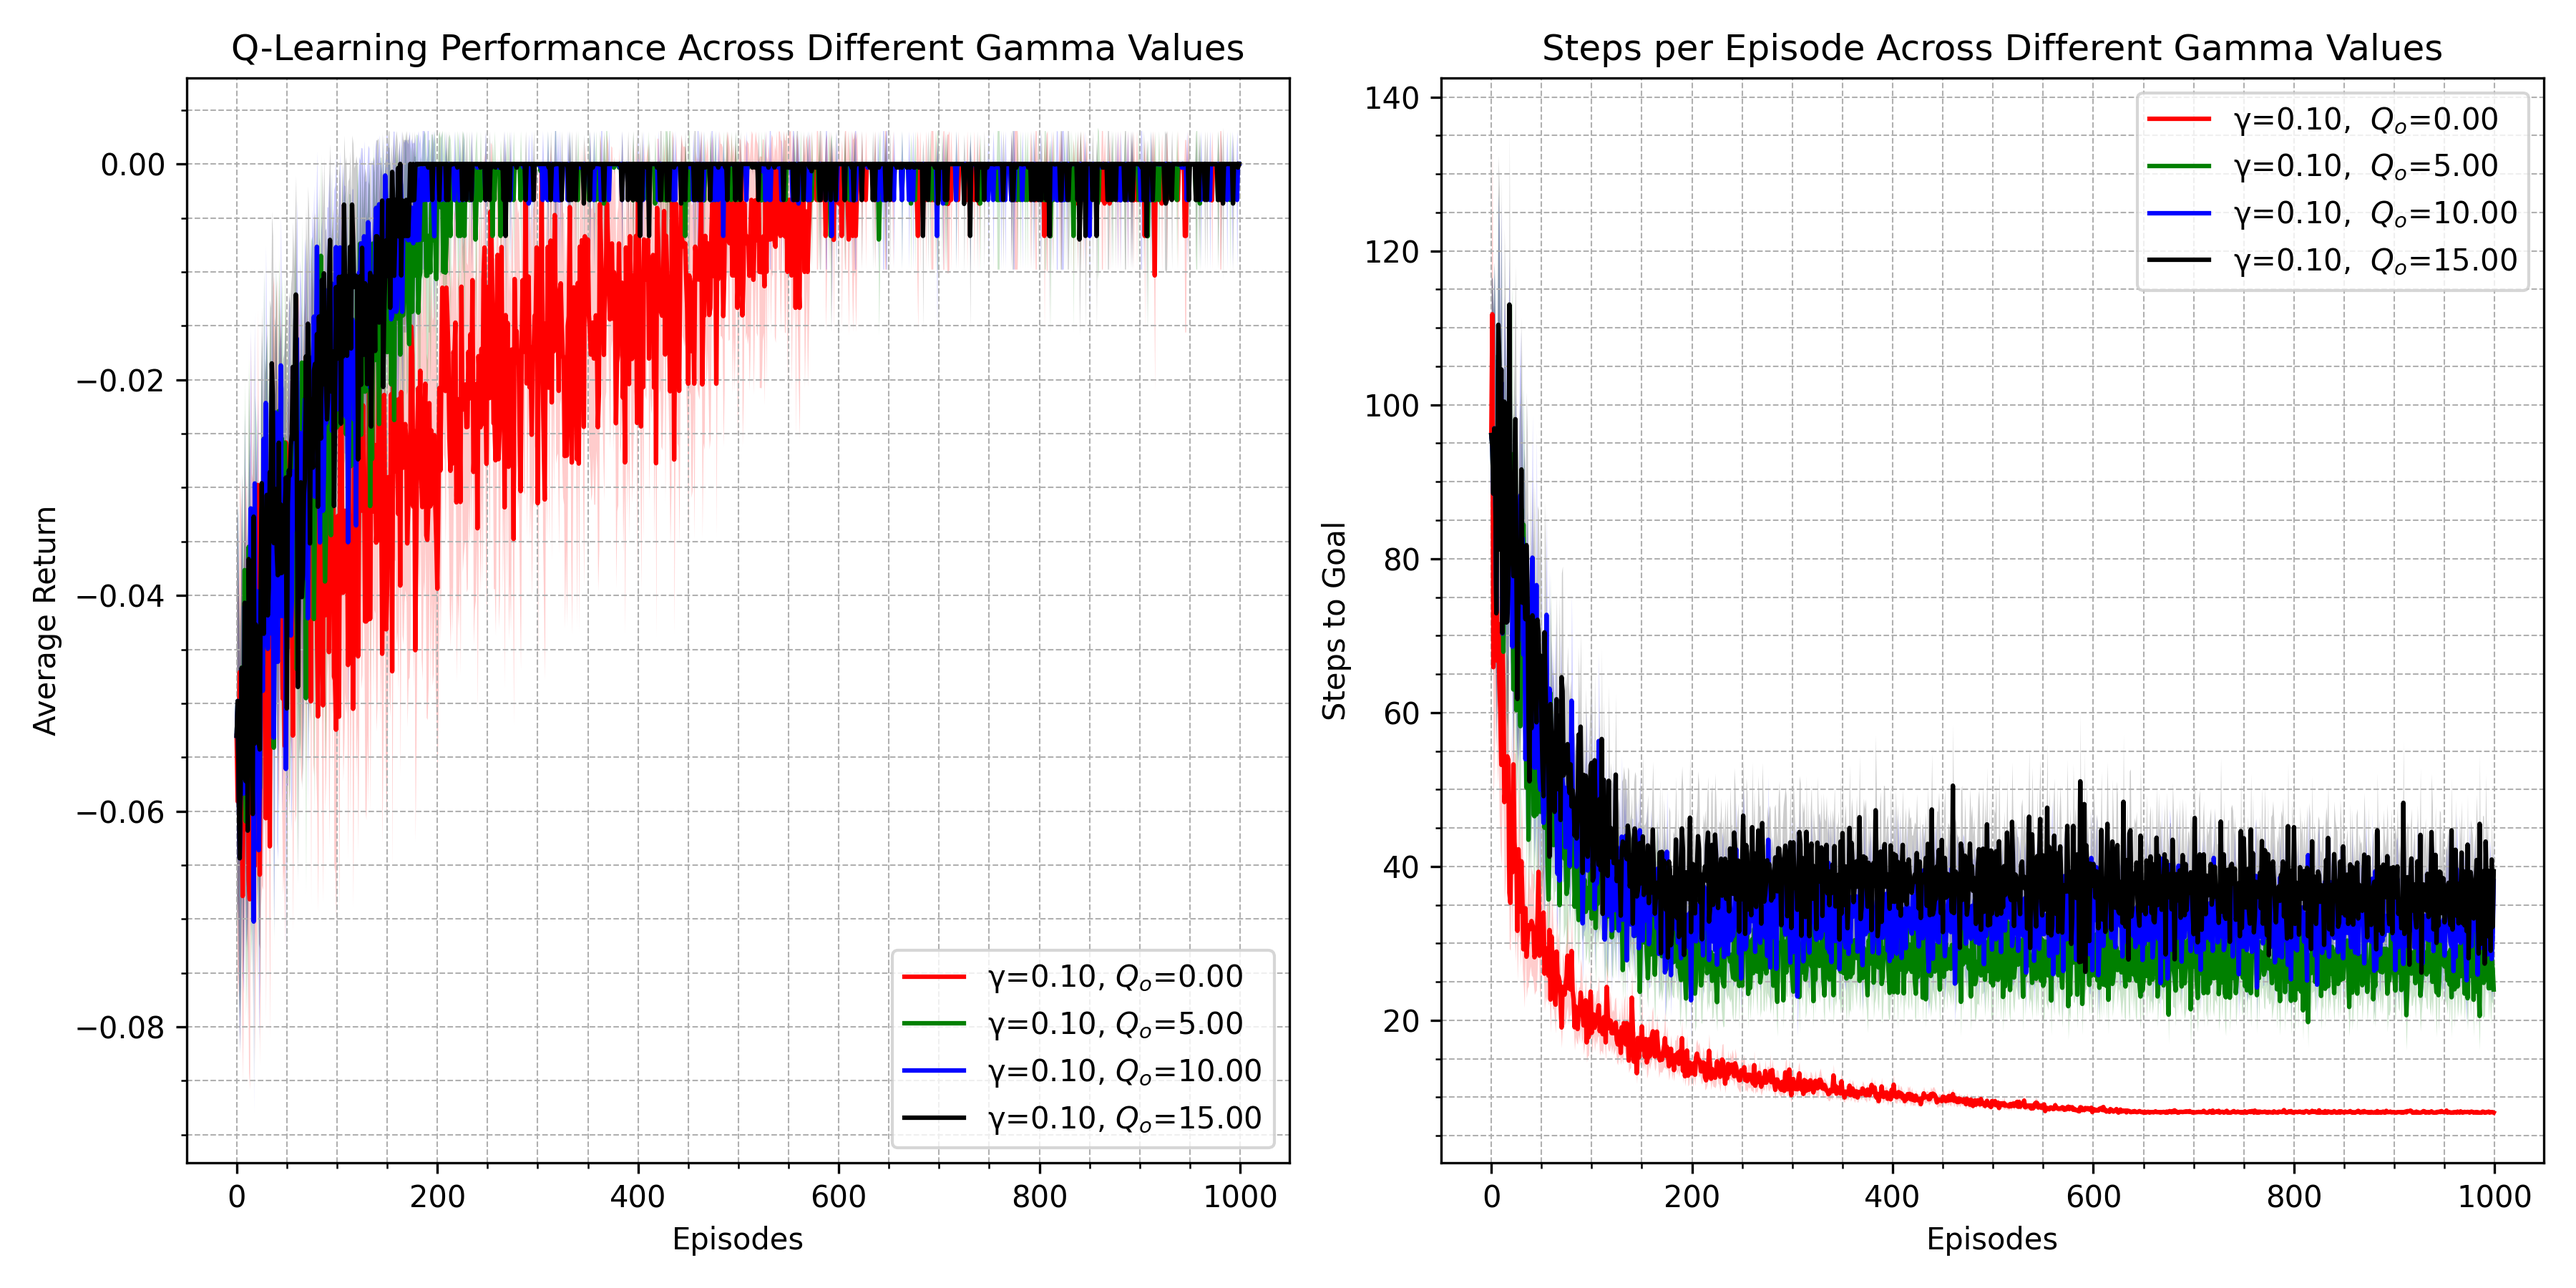
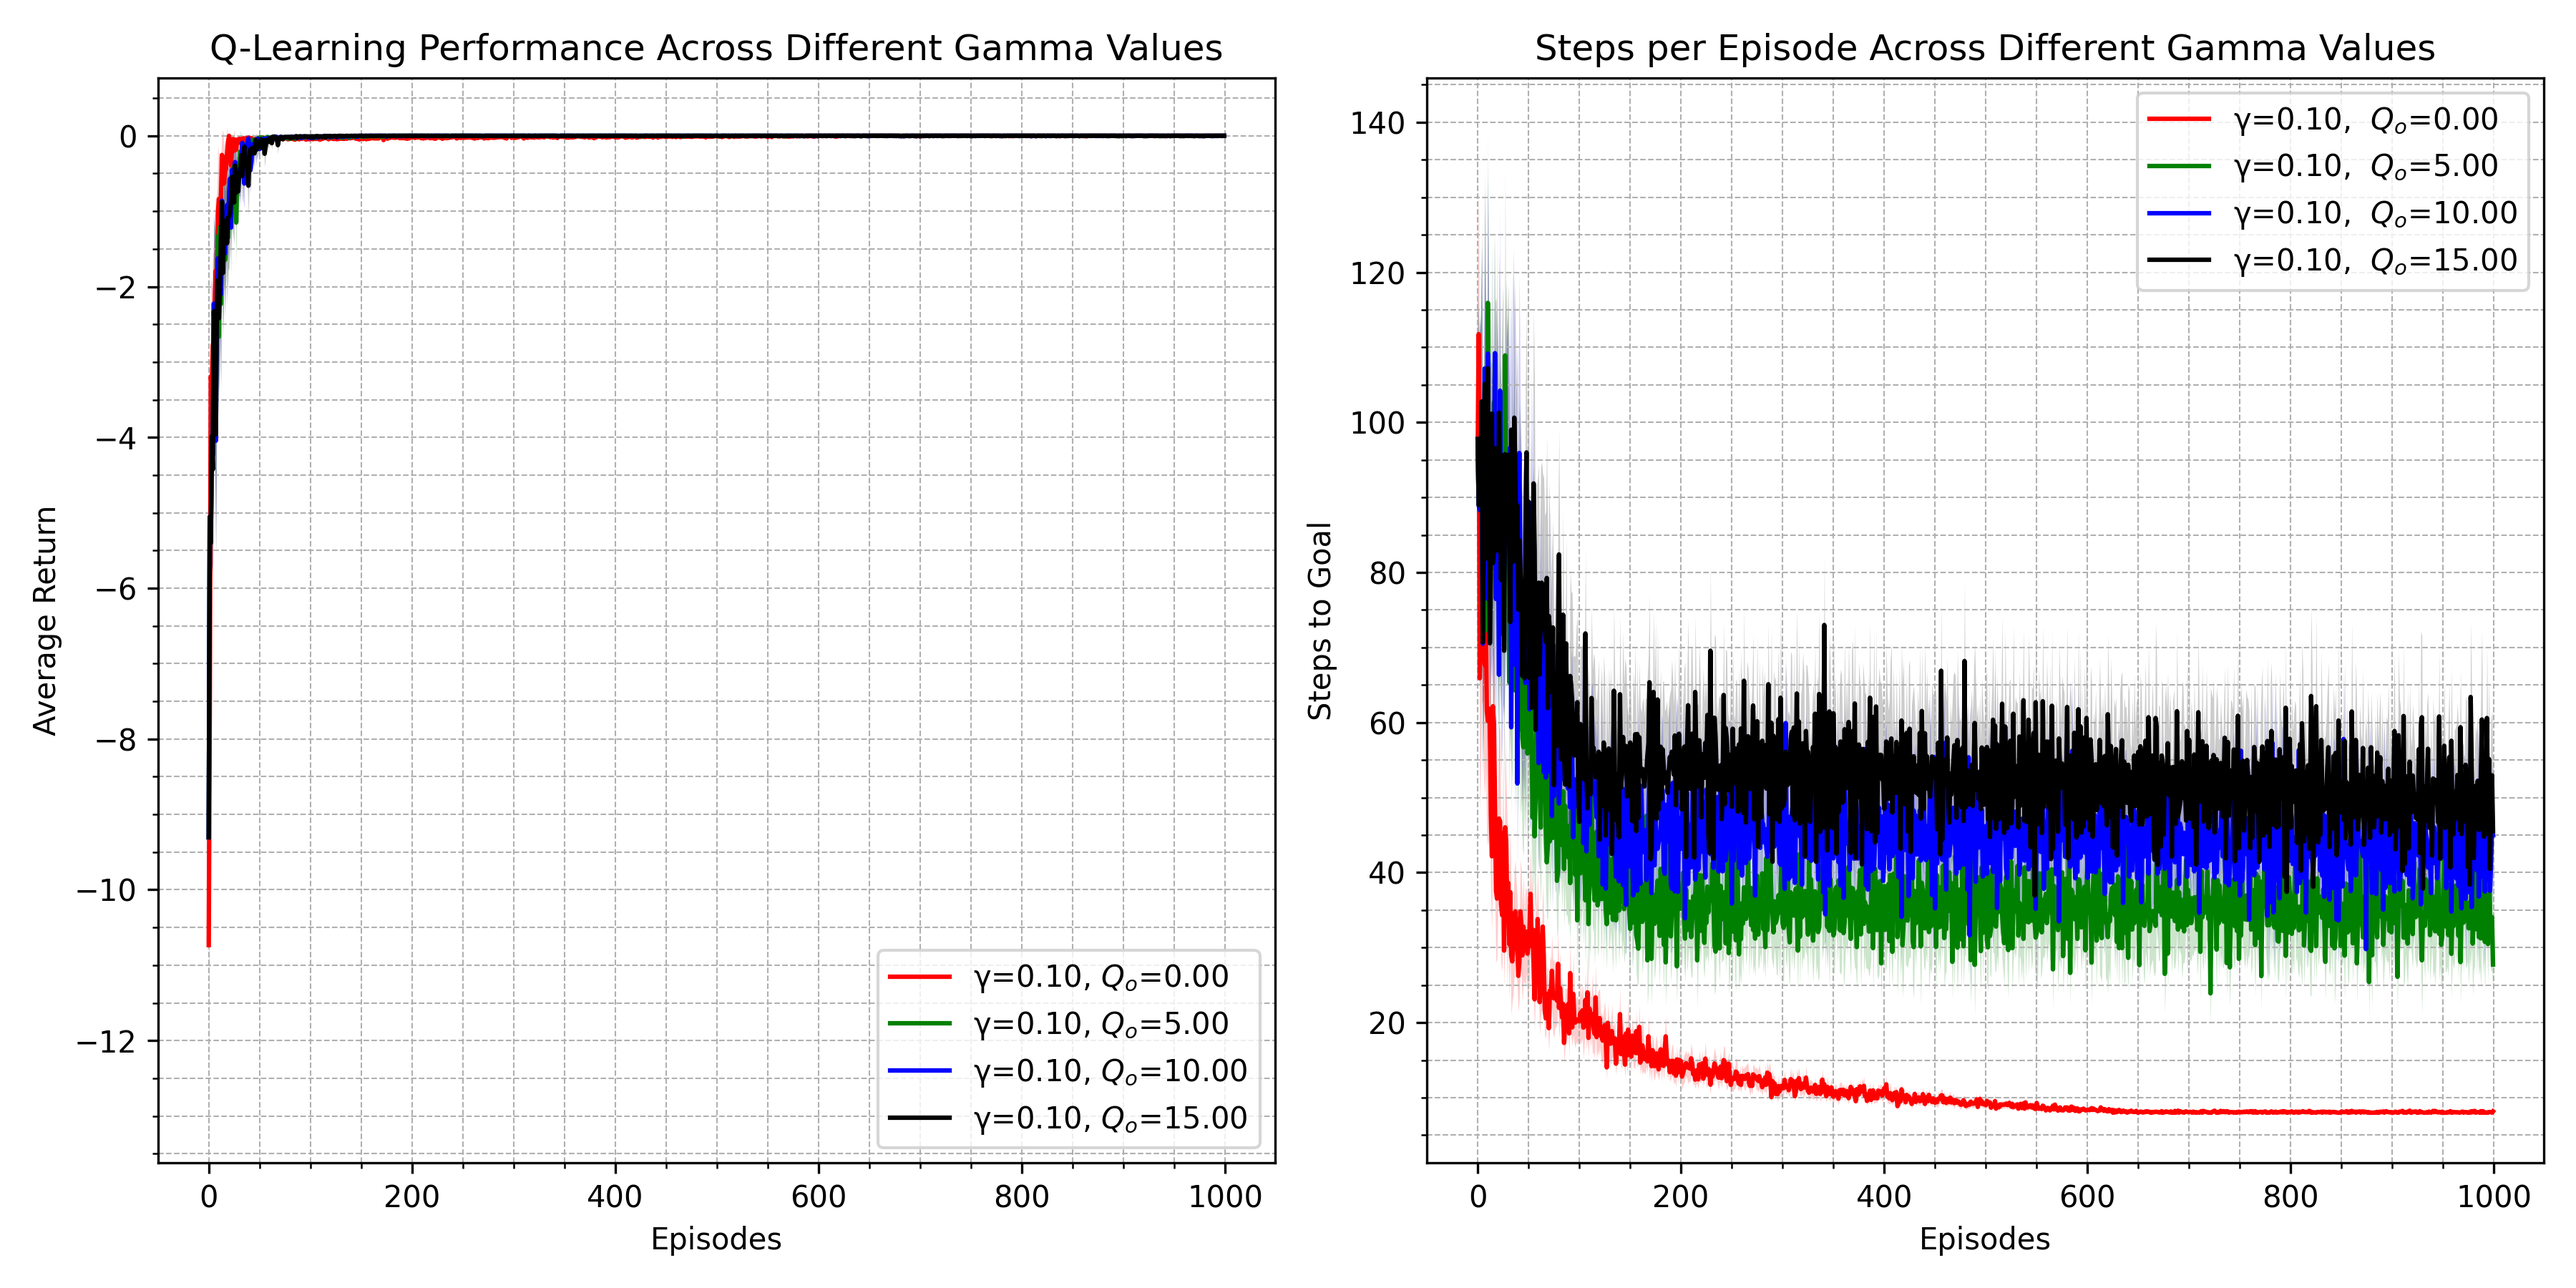
no learning

diff --git a/experiments/episode_adaptive_gamma.py b/experiments/episode_adaptive_gamma.py
@@ -97,7 +97,7 @@ def Q_learning(env, Q, gamma, eps, alpha, max_steps, _seed):
             eps = max(eps - eps_decay, 0.01)
             alpha = max(alpha - alpha_decay, 0.001)
 
-            gamma = min(gamma + episode_steps * gamma / max_steps, 0.99)
+            gamma = min(gamma + episode_steps * gamma / tot_steps, 0.99)
 
             best_actions = np.where(Q[s_next] == np.max(Q[s_next]))[0]
             a_next = np.random.choice(best_actions)
